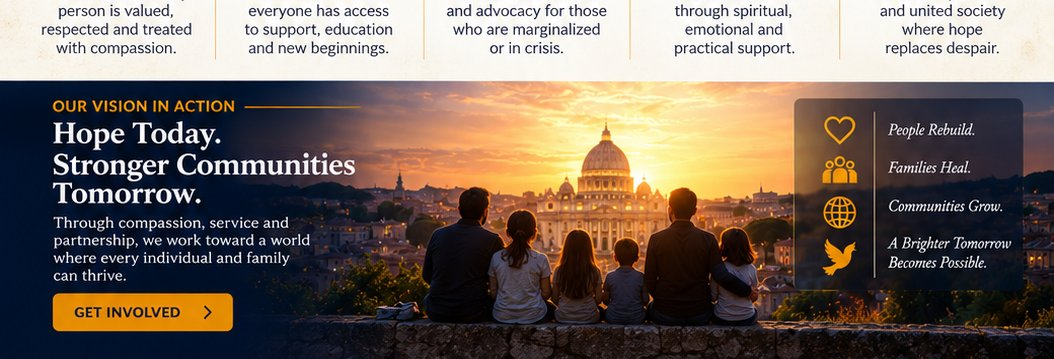
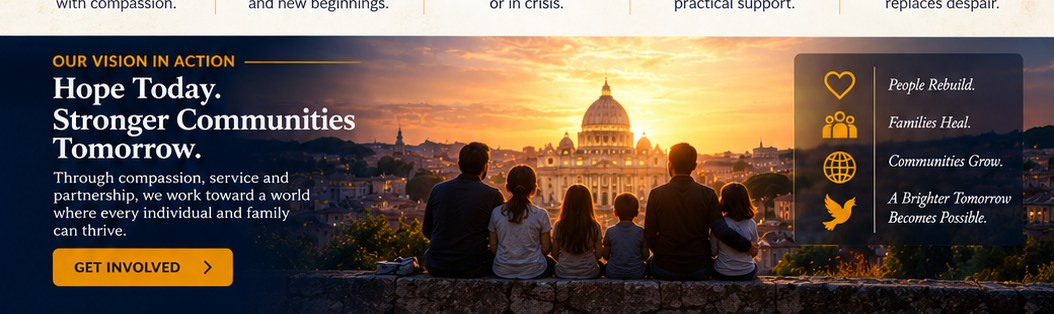
fix: pin hero-wave panel to true left edge, eliminate baked-in text
The navy wave panel was centered inside the 1200px .wrap container,
so on wide viewports it floated away from the left edge instead of
hugging it as in the PNG. It's now a direct child of the hero,
pinned to the true left edge with grid-aware padding.

Re-cropped both Our Vision images so no mockup text/logo pixels are
ever visible: the hero photo is now a clean text-free crop, and the
bottom photo band uses a new reusable .photo-band component (navy
text panel + visible photo + dark icon-list aside) that recreates
the aside list in real HTML instead of relying on baked pixels.

diff --git a/src/styles/global.css b/src/styles/global.css
@@ -353,23 +353,75 @@
     background: var(--color-navy);
   }
   .hero-wave__bg { position: absolute; inset: 0; }
-  .hero-wave__bg img { width: 100%; height: 100%; object-fit: cover; }
+  .hero-wave__bg img { width: 100%; height: 100%; object-fit: cover; object-position: right center; }
   .hero-wave__panel {
-    position: relative;
+    position: absolute;
     z-index: 2;
+    inset-block: 0;
+    left: 0;
     background: var(--color-navy);
-    width: min(620px, 56%);
-    padding: 3rem 2.5rem 3.5rem;
+    width: min(620px, 54%);
+    padding: 3rem 2.5rem 3.5rem max(1.5rem, calc((100vw - 1200px) / 2 + 1.5rem));
     display: flex;
     flex-direction: column;
+    justify-content: center;
     gap: 0.75rem;
-    clip-path: polygon(0 0, 100% 0, 82% 20%, 100% 38%, 78% 58%, 96% 80%, 68% 100%, 0% 100%);
+    clip-path: polygon(0 0, 100% 0, 80% 18%, 96% 36%, 74% 56%, 92% 78%, 64% 100%, 0% 100%);
   }
   @media (max-width: 860px) {
     .hero-wave { min-height: 0; padding-block: 2.5rem; }
-    .hero-wave__panel { width: 100%; clip-path: none; padding: 2rem 1.5rem; }
-    .hero-wave__bg { position: absolute; inset: 0; }
+    .hero-wave__panel {
+      position: relative;
+      inset: auto;
+      width: 100%;
+      clip-path: none;
+      padding: 2rem 1.5rem;
+    }
     .hero-wave__bg::after { content: ''; position: absolute; inset: 0; background: rgba(18,26,56,0.82); }
+  }
+
+  /* ─── PHOTO BAND (text + photo + aside) ──── */
+  .photo-band {
+    position: relative;
+    display: flex;
+    align-items: stretch;
+    min-height: 280px;
+    overflow: hidden;
+  }
+  .photo-band__bg { position: absolute; inset: 0; }
+  .photo-band__bg img { width: 100%; height: 100%; object-fit: cover; }
+  .photo-band__text {
+    position: relative;
+    z-index: 2;
+    background: var(--color-navy);
+    width: min(420px, 42%);
+    padding: 2.5rem 2rem;
+    display: flex;
+    flex-direction: column;
+    justify-content: center;
+    gap: 0.625rem;
+  }
+  .photo-band__aside {
+    position: relative;
+    z-index: 2;
+    margin-left: auto;
+    background: rgba(18,26,56,0.88);
+    border-left: 1px solid rgba(224,123,0,0.3);
+    width: min(300px, 27%);
+    padding: 1.75rem 1.5rem;
+    display: flex;
+    flex-direction: column;
+    justify-content: center;
+    gap: 0.75rem;
+  }
+  .photo-band__aside-item { display: flex; align-items: center; gap: 0.625rem; }
+  .photo-band__aside-item svg { color: var(--color-amber); flex-shrink: 0; }
+  .photo-band__aside-item span { font-family: var(--font-heading); font-style: italic; font-size: 0.875rem; color: #fff; }
+  @media (max-width: 760px) {
+    .photo-band { flex-direction: column; min-height: 0; }
+    .photo-band__text, .photo-band__aside { width: 100%; margin-left: 0; }
+    .photo-band__bg { position: absolute; inset: 0; }
+    .photo-band__bg::after { content: ''; position: absolute; inset: 0; background: rgba(18,26,56,0.35); }
   }
 
   /* ─── CARDS ──────────────────────────────── */
